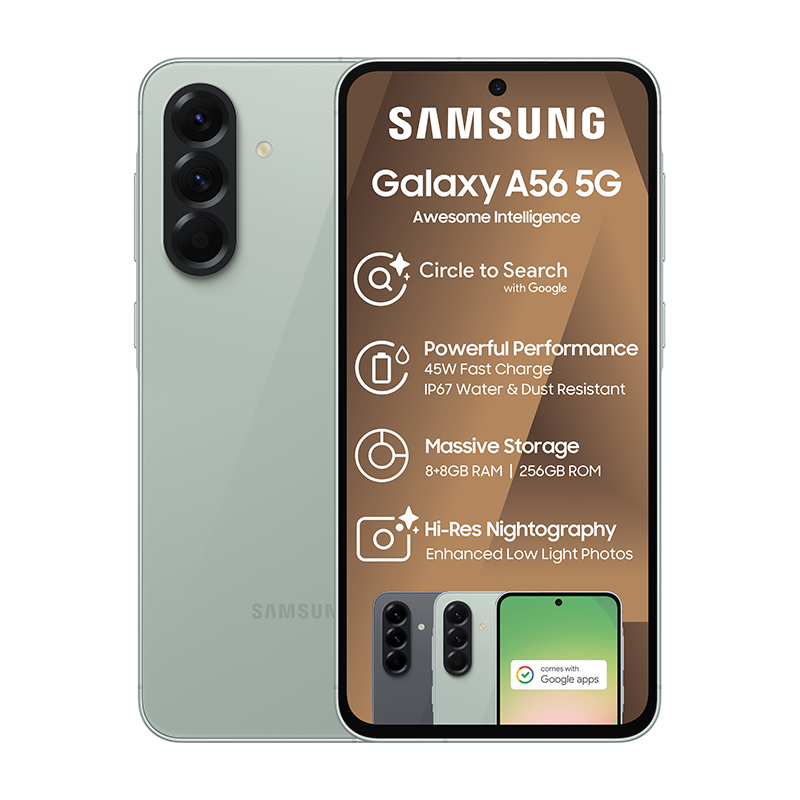
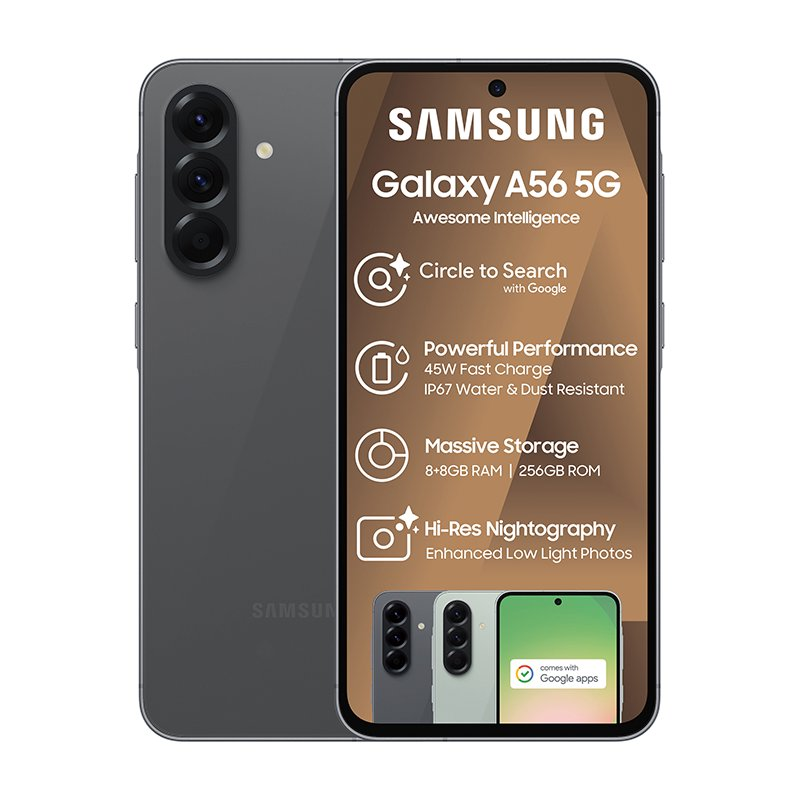
Add all 12 official Takealot product photos to gallery and carousel

Changed region(s): [[0.1562, 0.0625, 0.8438, 0.9375], [0.5312, 0.5312, 0.75, 0.5938], [0.5625, 0.75, 0.5938, 0.8438]]

diff --git a/index.html b/index.html
@@ -60,13 +60,13 @@
   <meta property="og:title" content="Samsung Galaxy A56 5G 256GB Dual Sim (Parallel Import) | takealot.com">
   <meta property="og:description" content="Black Friday Offer: Samsung Galaxy A56 5G 256GB Dual Sim (Parallel Import) for R799 on takealot.com.">
   <meta property="og:type" content="product">
-  <meta property="og:image" content="images/galaxy-a56-main.png">
+  <meta property="og:image" content="images/galaxy-a56-01.jpg">
   <meta property="product:price:amount" content="799">
   <meta property="product:price:currency" content="ZAR">
   <meta name="twitter:card" content="summary_large_image">
   <meta name="twitter:title" content="Samsung Galaxy A56 5G 256GB Dual Sim (Parallel Import) | takealot.com">
   <meta name="twitter:description" content="Black Friday Offer: Samsung Galaxy A56 5G 256GB Dual Sim (Parallel Import) for R799 on takealot.com.">
-  <meta name="twitter:image" content="images/galaxy-a56-main.png">
+  <meta name="twitter:image" content="images/galaxy-a56-01.jpg">
 
   <!-- Schema.org Product Structured Data -->
   <script type="application/ld+json">
@@ -76,12 +76,18 @@
     "name": "Samsung Galaxy A56 5G 256GB Dual Sim (Parallel Import)",
     "description": "Samsung Galaxy A56 5G 256GB Dual Sim (Parallel Import) - Awesome Graphite. 6.7-inch FHD+ Super AMOLED+ 120Hz display, Exynos 1580 Octa-Core processor, 50MP triple rear camera with OIS, 5,000 mAh battery with 45W fast charge, IP67 water/dust resistance.",
     "image": [
-      "images/galaxy-a56-main.png",
-      "images/galaxy-a56-graphite-main.png",
-      "images/galaxy-a56-lightgray.png",
-      "images/galaxy-a56-pink.png",
-      "images/galaxy-a56-ai-features.jpg",
-      "images/galaxy-a56-case.jpg"
+      "images/galaxy-a56-01.jpg",
+      "images/galaxy-a56-02.jpg",
+      "images/galaxy-a56-03.jpg",
+      "images/galaxy-a56-04.jpg",
+      "images/galaxy-a56-05.jpg",
+      "images/galaxy-a56-06.jpg",
+      "images/galaxy-a56-07.png",
+      "images/galaxy-a56-08.jpg",
+      "images/galaxy-a56-09.jpg",
+      "images/galaxy-a56-10.png",
+      "images/galaxy-a56-11.jpg",
+      "images/galaxy-a56-12.jpg"
     ],
     "brand": {
       "@type": "Brand",
@@ -372,19 +378,24 @@
       display: flex;
       align-items: center;
       justify-content: center;
-      gap: 10px;
-      padding: 10px 0 0;
+      flex-wrap: wrap;
+      gap: 6px;
+      padding: 10px 8px 0;
     }
     .dot{
-      width: 10px;
-      height: 10px;
+      width: 8px;
+      height: 8px;
       border-radius: 999px;
       background: #cfcfcf;
       border: 0;
       padding: 0;
       cursor: pointer;
+      transition: background 0.2s, transform 0.2s;
     }
-    .dot.is-active{ background: var(--blue); }
+    .dot.is-active{
+      background: var(--blue);
+      transform: scale(1.15);
+    }
 
     .info{
       padding: 10px 12px 0;
@@ -1780,7 +1791,7 @@
   <div class="wrap">
     <section class="hero" aria-label="Product hero">
       <div class="hero__imgbox">
-        <img id="productImage" class="hero__img" src="images/galaxy-a56-main.png" alt="Samsung Galaxy A56 5G 256GB Dual Sim (Parallel Import)">
+        <img id="productImage" class="hero__img" src="images/galaxy-a56-01.jpg" alt="Samsung Galaxy A56 5G 256GB Dual Sim (Parallel Import)">
 
         <div class="badge-off" aria-label="Black Friday Offer" style="width: auto; padding: 6px 10px; font-size: 11px; font-weight: 800; letter-spacing: 0.5px;">
           BLACK
@@ -1804,6 +1815,12 @@
         <button class="dot" data-index="3" aria-label="Image 4"></button>
         <button class="dot" data-index="4" aria-label="Image 5"></button>
         <button class="dot" data-index="5" aria-label="Image 6"></button>
+        <button class="dot" data-index="6" aria-label="Image 7"></button>
+        <button class="dot" data-index="7" aria-label="Image 8"></button>
+        <button class="dot" data-index="8" aria-label="Image 9"></button>
+        <button class="dot" data-index="9" aria-label="Image 10"></button>
+        <button class="dot" data-index="10" aria-label="Image 11"></button>
+        <button class="dot" data-index="11" aria-label="Image 12"></button>
       </div>
     </section>
 
@@ -2383,7 +2400,7 @@
 
   <div class="modal" id="modal">
     <button class="modal-close" id="modalClose" aria-label="Close">&#10005;</button>
-    <img id="modalImg" src="images/galaxy-a56-main.png" alt="Samsung Galaxy A56 5G 256GB Dual Sim (Parallel Import)">
+    <img id="modalImg" src="images/galaxy-a56-01.jpg" alt="Samsung Galaxy A56 5G 256GB Dual Sim (Parallel Import)">
   </div>
 
 <div class="footer-banner">
@@ -2394,12 +2411,18 @@
   <script>
 
     const images = [
-      "images/galaxy-a56-main.png",
-      "images/galaxy-a56-graphite-main.png",
-      "images/galaxy-a56-lightgray.png",
-      "images/galaxy-a56-pink.png",
-      "images/galaxy-a56-ai-features.jpg",
-      "images/galaxy-a56-case.jpg"
+      "images/galaxy-a56-01.jpg",
+      "images/galaxy-a56-02.jpg",
+      "images/galaxy-a56-03.jpg",
+      "images/galaxy-a56-04.jpg",
+      "images/galaxy-a56-05.jpg",
+      "images/galaxy-a56-06.jpg",
+      "images/galaxy-a56-07.png",
+      "images/galaxy-a56-08.jpg",
+      "images/galaxy-a56-09.jpg",
+      "images/galaxy-a56-10.png",
+      "images/galaxy-a56-11.jpg",
+      "images/galaxy-a56-12.jpg"
     ];
 
 const productImage = document.getElementById("productImage");
